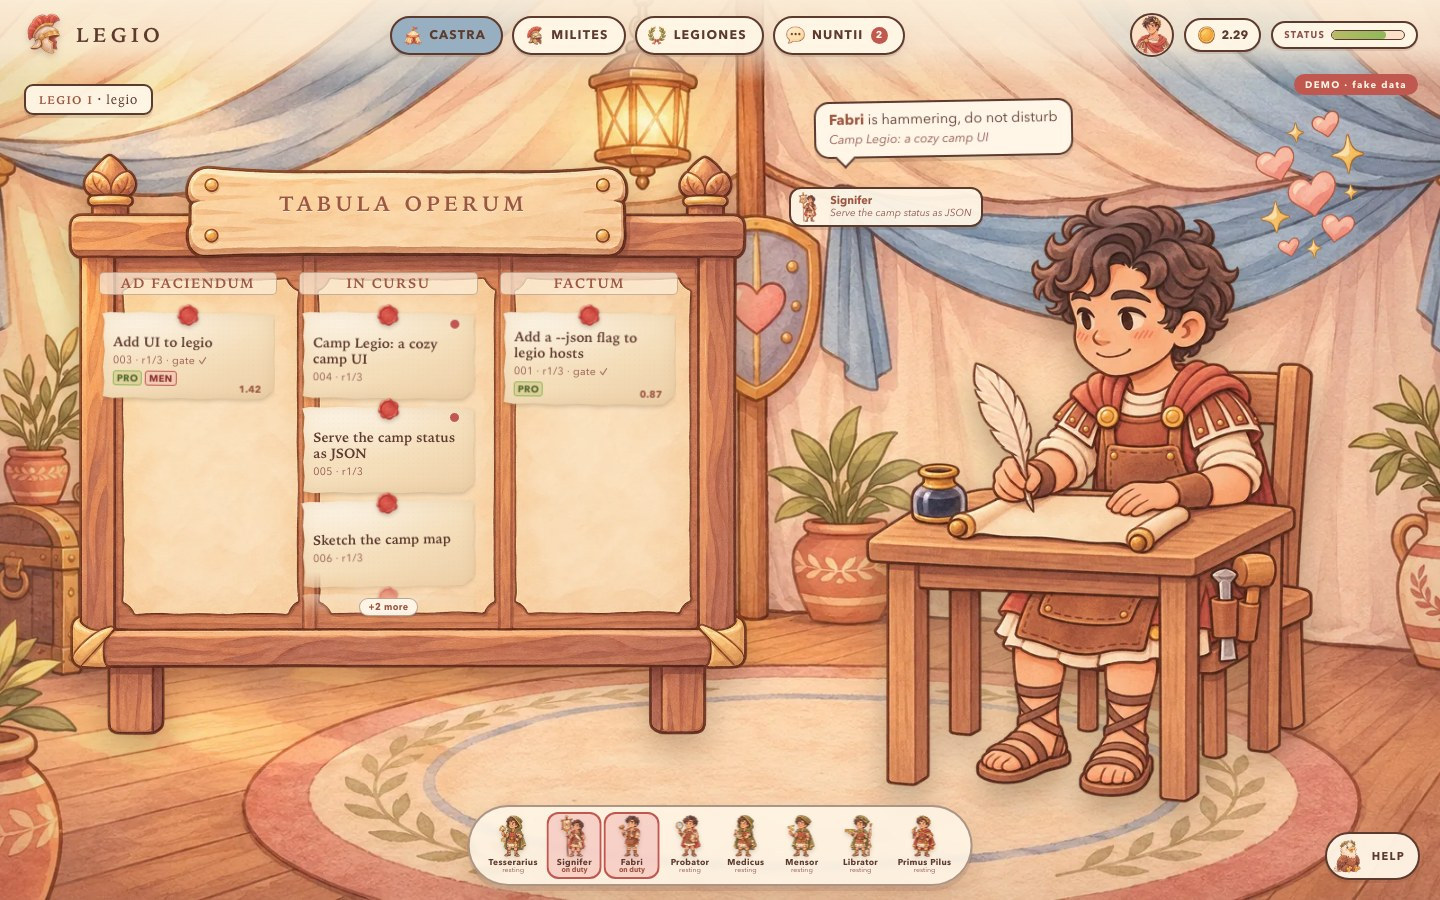
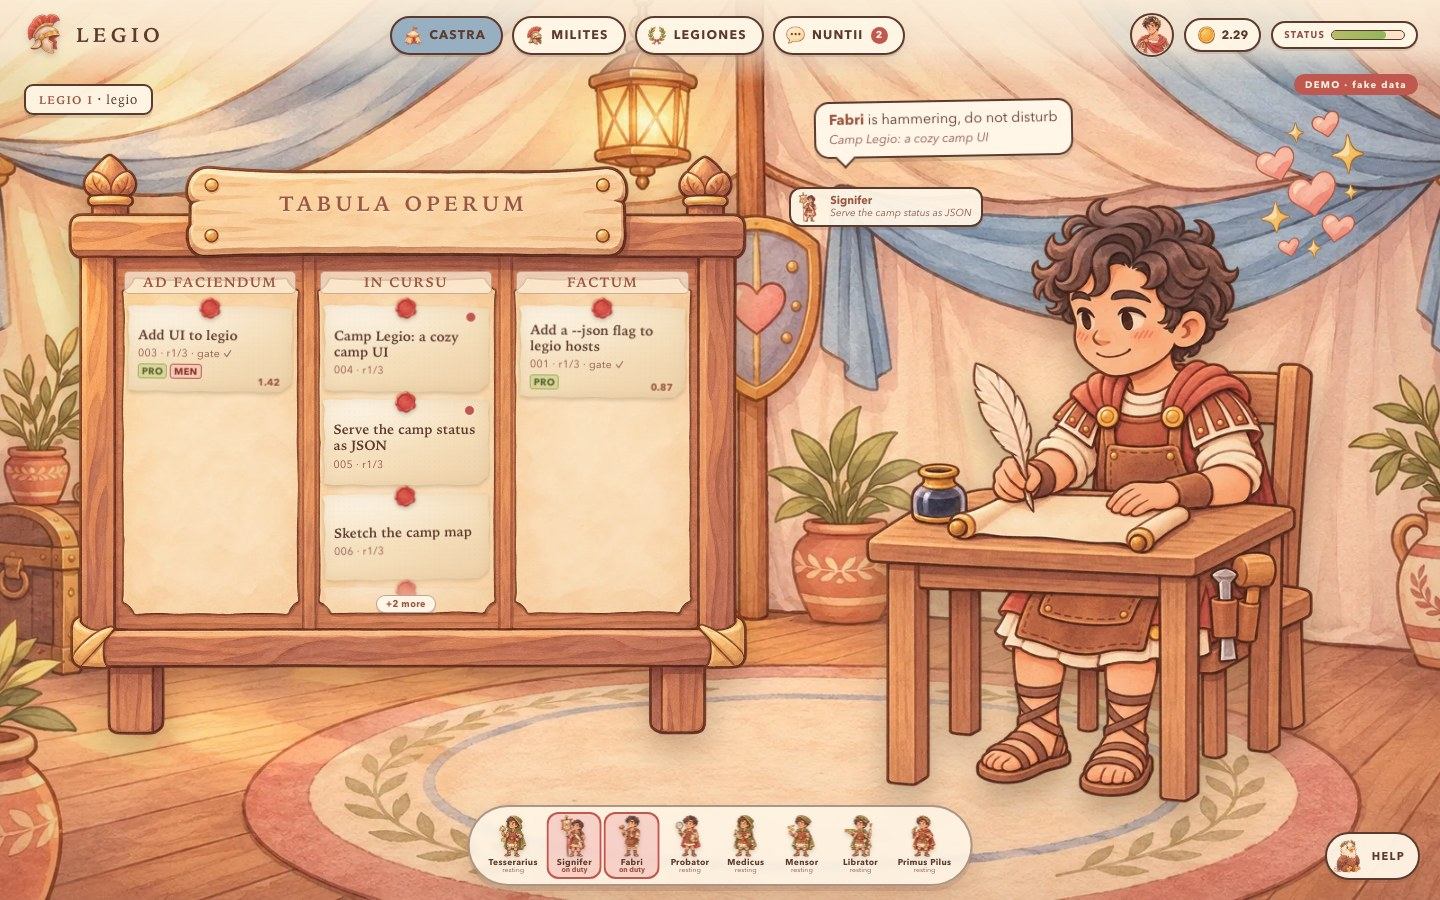
web: line the notes up with the painted panels, hide +N more on scroll
The note overlay was positioned by eyeballed percentages (9%..87%) while the
painted panels actually sit at 12.45-35.55 / 38.85-62.1 / 65.15-88.4, so every
note sat a few percent left of its panel. The lane and label grids now use the
measured panel geometry, and the lane row is height-constrained so the notes
scroll inside the panel instead of leaking over the frame.

The "+N more" pill is now recomputed on scroll: it updates its count, hides
when the lane is scrolled to the bottom and comes back when there is still
something below. Screenshots refreshed.

Changed region(s): [[0.0625, 0.28, 0.4688, 0.6844], [0.4375, 0.4044, 0.4688, 0.4667], [0.4688, 0.3111, 0.5, 0.3422]]

diff --git a/web/app.js b/web/app.js
@@ -326,16 +326,27 @@ function annotateLaneOverflow(project) {
   $$('.lane').forEach((laneEl) => {
     const notes = laneEl.querySelector('.notes');
     if (!notes) return;
-    const hidden = Array.from(notes.children).filter((child) =>
-      child.offsetTop + child.offsetHeight > notes.clientHeight + 4).length;
-    if (!hidden || notes.scrollHeight <= notes.clientHeight + 4) return;
-    laneEl.classList.add('overflowing');
-    const button = document.createElement('button');
-    button.type = 'button';
-    button.className = 'lane-more';
-    button.textContent = `+${hidden} more`;
-    button.addEventListener('click', () => showLane(project, laneEl.dataset.lane));
-    laneEl.appendChild(button);
+    let pill = null;
+    const update = () => {
+      const bottom = notes.scrollTop + notes.clientHeight;
+      const hidden = Array.from(notes.children).filter((child) =>
+        child.offsetTop + child.offsetHeight > bottom + 4).length;
+      laneEl.classList.toggle('overflowing', hidden > 0);
+      if (!hidden) {
+        if (pill) { pill.remove(); pill = null; }
+        return;
+      }
+      if (!pill) {
+        pill = document.createElement('button');
+        pill.type = 'button';
+        pill.className = 'lane-more';
+        pill.addEventListener('click', () => showLane(project, laneEl.dataset.lane));
+        laneEl.appendChild(pill);
+      }
+      pill.textContent = `+${hidden} more`;
+    };
+    notes.addEventListener('scroll', update, { passive: true });
+    update();
   });
 }
 

diff --git a/web/styles.css b/web/styles.css
@@ -485,16 +485,16 @@ a { color: inherit; }
 
 .board-labels {
   position: absolute;
-  top: 21.6%;
-  left: 9%;
-  right: 13%;
-  display: flex;
-  gap: 3.85%;
+  top: 21.4%;
+  left: 12.45%;
+  right: 11.6%;
+  display: grid;
+  grid-template-columns: 30.4% 30.6% 30.6%;
+  justify-content: space-between;
   text-align: center;
 }
 
 .board-labels span {
-  flex: 1;
   padding: 1px 4px;
   border: 1.5px solid rgba(93, 58, 46, 0.32);
   border-radius: 5px;
@@ -511,18 +511,20 @@ a { color: inherit; }
 
 .board-lanes {
   position: absolute;
-  top: 26.5%;
-  bottom: 21%;
-  left: 9%;
-  right: 13%;
-  display: flex;
-  gap: 3.85%;
+  top: 25.2%;
+  bottom: 21.4%;
+  left: 12.45%;
+  right: 11.6%;
+  display: grid;
+  grid-template-columns: 30.4% 30.6% 30.6%;
+  grid-template-rows: minmax(0, 1fr);
+  justify-content: space-between;
 }
 
 .lane {
   position: relative;
-  flex: 1;
   min-width: 0;
+  min-height: 0;
   display: flex;
   padding: 1px 2px 0;
 }
@@ -555,7 +557,9 @@ a { color: inherit; }
 .lane-list a { align-items: center; }
 
 .notes {
+  position: relative;
   width: 100%;
+  min-height: 0;
   display: flex;
   flex-direction: column;
   gap: 6px;
